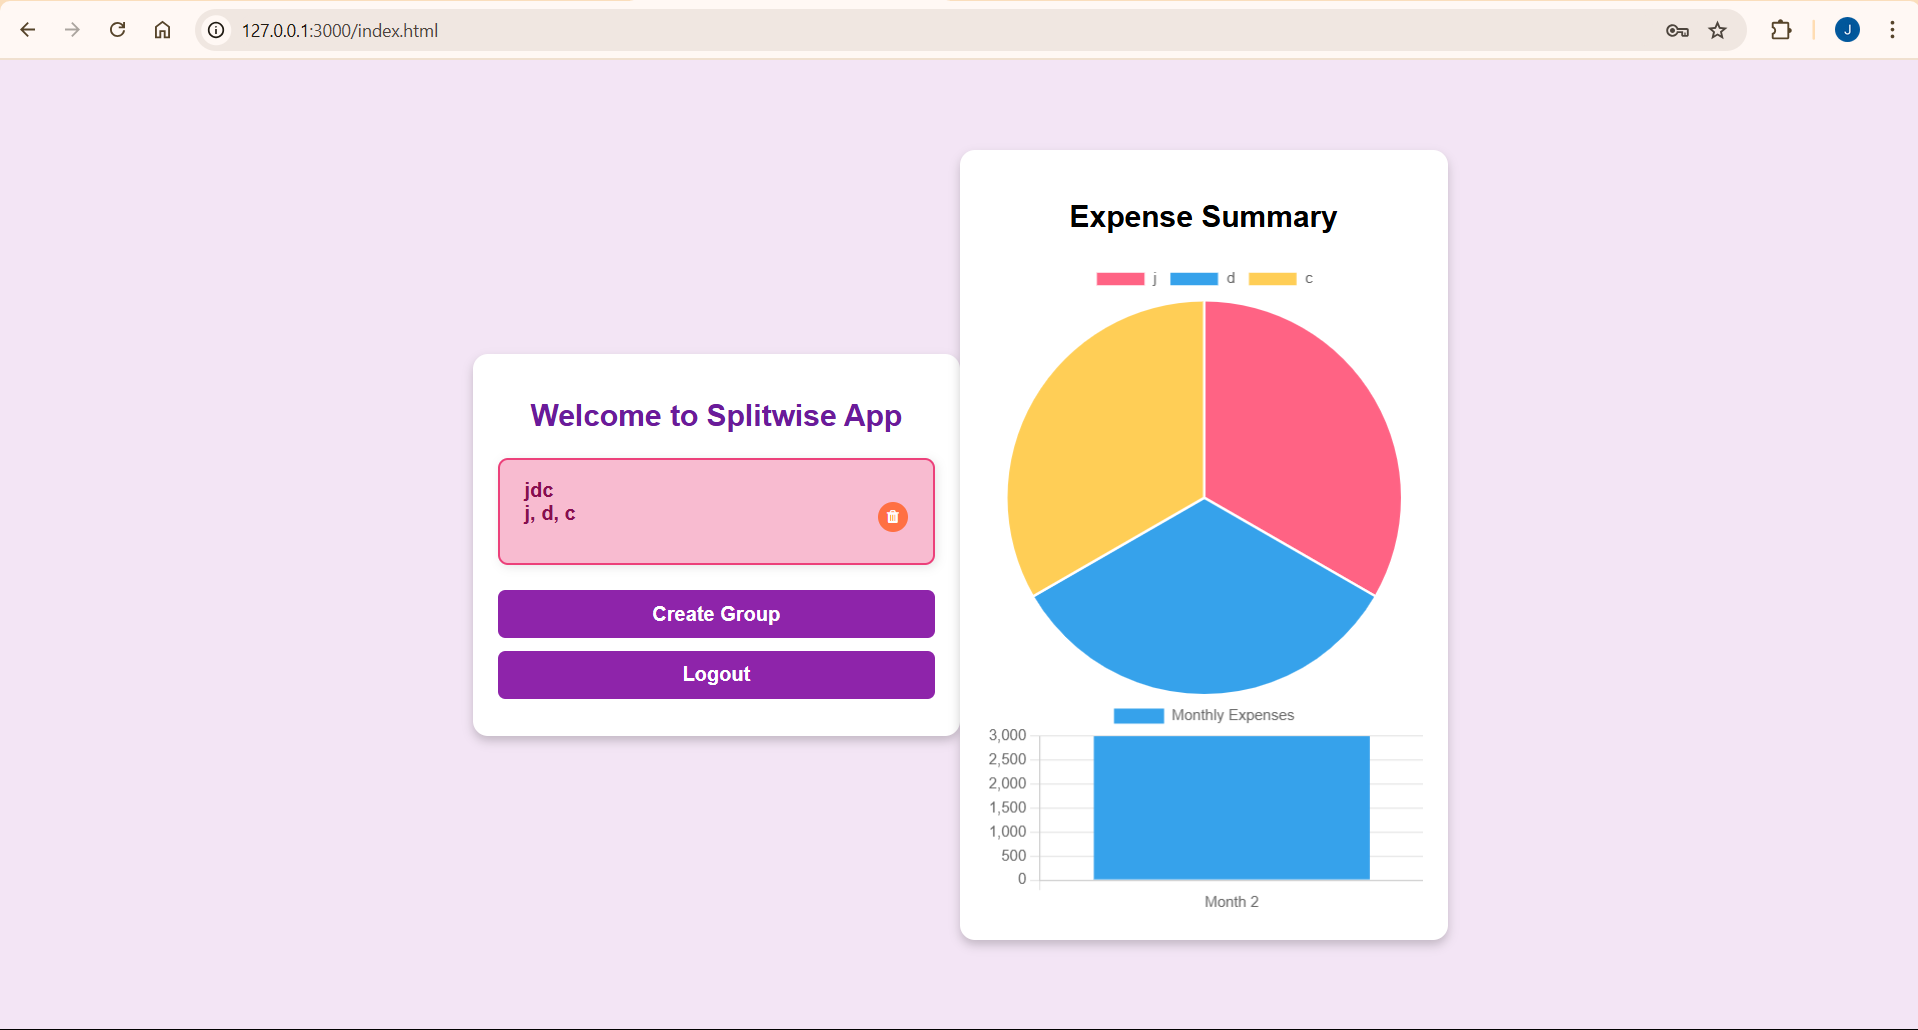
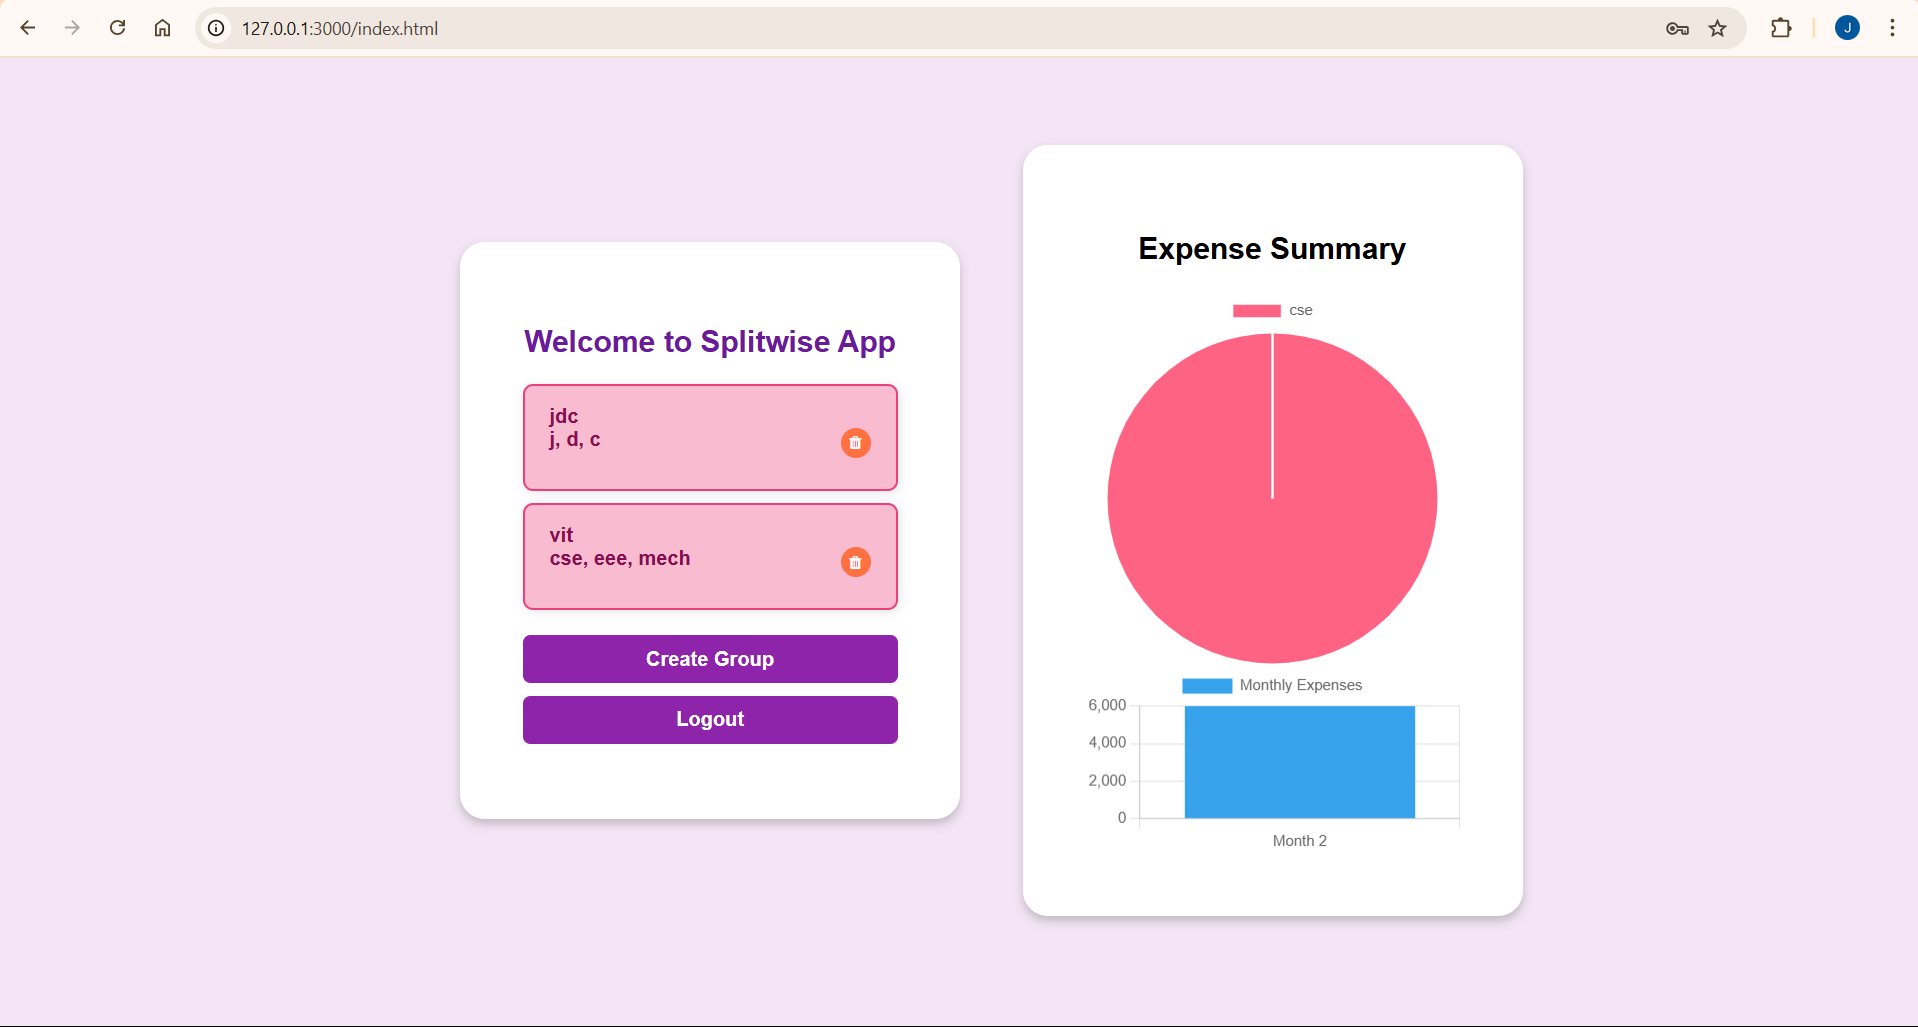
added files

Changed region(s): [[0.2153, 0.1246, 0.7998, 0.9348], [0.0, 0.0, 1.0, 0.0623]]

diff --git a/auth.js b/auth.js
@@ -5,47 +5,50 @@ import {
     onAuthStateChanged 
 } from "https://www.gstatic.com/firebasejs/10.7.0/firebase-auth.js";
 
-const signupBtn = document.getElementById("signup-btn");
-const loginBtn = document.getElementById("login-btn");
-const authMessage = document.getElementById("auth-message");
-
-// ✅ Handle Auth State Only After DOM is Fully Loaded
 document.addEventListener("DOMContentLoaded", () => {
     onAuthStateChanged(auth, (user) => {
         if (user) {
             console.log("User is already logged in:", user.email);
-            // Prevent immediate redirection on auth.html
-            if (!window.location.href.includes("auth.html")) {
+            // If the user is on the login or signup page, don't redirect immediately
+            if (!window.location.href.includes("auth.html") && !window.location.href.includes("signup.html")) {
                 window.location.href = "index.html";
             }
         }
     });
-});
 
-// ✅ Sign Up Function
-signupBtn.addEventListener("click", async () => {
-    const email = document.getElementById("signup-email").value;
-    const password = document.getElementById("signup-password").value;
+    const signupBtn = document.getElementById("signup-btn");
+    const loginBtn = document.getElementById("login-btn");
+    const authMessage = document.getElementById("auth-message");
 
-    try {
-        await createUserWithEmailAndPassword(auth, email, password);
-        authMessage.innerText = "Signup Successful! Redirecting...";
-        setTimeout(() => window.location.href = "index.html", 2000);
-    } catch (error) {
-        authMessage.innerText = error.message;
+    // ✅ Sign Up Function
+    if (signupBtn) {
+        signupBtn.addEventListener("click", async () => {
+            const email = document.getElementById("signup-email").value;
+            const password = document.getElementById("signup-password").value;
+
+            try {
+                await createUserWithEmailAndPassword(auth, email, password);
+                authMessage.innerText = "Signup Successful! Redirecting to Login...";
+                setTimeout(() => window.location.href = "auth.html", 2000); // Redirect to login page
+            } catch (error) {
+                authMessage.innerText = error.message;
+            }
+        });
     }
-});
 
-// ✅ Login Function
-loginBtn.addEventListener("click", async () => {
-    const email = document.getElementById("login-email").value;
-    const password = document.getElementById("login-password").value;
+    // ✅ Login Function
+    if (loginBtn) {
+        loginBtn.addEventListener("click", async () => {
+            const email = document.getElementById("login-email").value;
+            const password = document.getElementById("login-password").value;
 
-    try {
-        await signInWithEmailAndPassword(auth, email, password);
-        authMessage.innerText = "Login Successful! Redirecting...";
-        setTimeout(() => window.location.href = "index.html", 2000);
-    } catch (error) {
-        authMessage.innerText = error.message;
+            try {
+                await signInWithEmailAndPassword(auth, email, password);
+                authMessage.innerText = "Login Successful! Redirecting...";
+                setTimeout(() => window.location.href = "index.html", 2000); // Redirect to main page
+            } catch (error) {
+                authMessage.innerText = error.message;
+            }
+        });
     }
 });

diff --git a/signup.js b/signup.js
@@ -1,0 +1,52 @@
+import { auth } from "./firebase-config.js";
+import { createUserWithEmailAndPassword } from "https://www.gstatic.com/firebasejs/10.7.0/firebase-auth.js";
+
+document.addEventListener("DOMContentLoaded", () => {
+    console.log("Signup.js loaded!"); // Debugging
+
+    const signupBtn = document.getElementById("signup-btn");
+    if (!signupBtn) {
+        console.error("Signup button not found!");
+        return;
+    }
+
+    signupBtn.addEventListener("click", async (event) => {
+        event.preventDefault(); // Prevent page refresh
+        console.log("Signup button clicked!");
+
+        const emailInput = document.getElementById("signup-email");
+        const passwordInput = document.getElementById("signup-password");
+        const authMessage = document.getElementById("auth-message"); // ✅ Check this
+
+        if (!emailInput || !passwordInput) {
+            console.error("Signup inputs not found!");
+            return;
+        }
+
+        const email = emailInput.value.trim();
+        const password = passwordInput.value.trim();
+
+        if (email === "" || password === "") {
+            if (authMessage) authMessage.innerText = "Please enter an email and password.";
+            return;
+        }
+
+        try {
+            const userCredential = await createUserWithEmailAndPassword(auth, email, password);
+            console.log("User signed up:", userCredential.user.email);
+
+            if (authMessage) authMessage.innerText = "Signup Successful! Redirecting to Login...";
+            else console.warn("auth-message element not found!");
+
+            setTimeout(() => {
+                console.log("Redirecting to auth.html...");
+                window.location.replace("auth.html");
+            }, 2000);
+
+        } catch (error) {
+            console.error("Signup error:", error.message);
+            if (authMessage) authMessage.innerText = error.message;
+            else console.warn("auth-message element not found!");
+        }
+    });
+});

diff --git a/auth.html b/auth.html
@@ -3,38 +3,29 @@
 <head>
     <meta charset="UTF-8">
     <meta name="viewport" content="width=device-width, initial-scale=1.0">
-    <title>Splitwise - Authentication</title>
+    <title>Login - FairShare</title>
     <link rel="stylesheet" href="style.css">
 
     <!-- Firebase SDKs -->
     <script type="module" src="https://www.gstatic.com/firebasejs/10.7.0/firebase-app.js"></script>
     <script type="module" src="https://www.gstatic.com/firebasejs/10.7.0/firebase-auth.js"></script>
-    <script type="module" src="./firebase-config.js"></script> <!-- Firebase configuration -->
+    <script type="module" src="./firebase-config.js"></script> <!-- Firebase Configuration -->
 </head>
 <body>
     <div class="container">
-        <h1>Welcome to Splitwise</h1>
-        
-        <!-- Signup Form -->
-        <div id="signup-section">
-            <h2>Sign Up</h2>
-            <input type="email" id="signup-email" placeholder="Email">
-            <input type="password" id="signup-password" placeholder="Password">
-            <button id="signup-btn">Sign Up</button>
-        </div>
+        <h1>Login to Splitwise</h1>
 
         <!-- Login Form -->
         <div id="login-section">
-            <h2>Login</h2>
             <input type="email" id="login-email" placeholder="Email">
             <input type="password" id="login-password" placeholder="Password">
             <button id="login-btn">Login</button>
+            <p>Don't have an account? <a href="signup.html">Sign Up</a></p> <!-- Link to Signup Page -->
         </div>
 
         <p id="auth-message"></p> <!-- Display authentication messages -->
-
     </div>
 
-    <script type="module" src="auth.js"></script> <!-- Keep this at the bottom -->
+    <script type="module" src="auth.js"></script> <!-- Login Script -->
 </body>
 </html>

diff --git a/signup.html b/signup.html
@@ -1,0 +1,33 @@
+<!DOCTYPE html>
+<html lang="en">
+<head>
+    <meta charset="UTF-8">
+    <meta name="viewport" content="width=device-width, initial-scale=1.0">
+    <title>Sign Up - FairShare</title>
+    <link rel="stylesheet" href="style.css">
+
+    <!-- Firebase SDKs -->
+    <script type="module" src="https://www.gstatic.com/firebasejs/10.7.0/firebase-app.js"></script>
+    <script type="module" src="https://www.gstatic.com/firebasejs/10.7.0/firebase-auth.js"></script>
+    <script type="module" src="./firebase-config.js"></script> <!-- Firebase Configuration -->
+</head>
+<body>
+    <div class="container">
+        <h1>Create an Account</h1>
+
+        <!-- Signup Form -->
+        <div id="signup-section">
+            <input type="email" id="signup-email" placeholder="Email">
+            <input type="password" id="signup-password" placeholder="Password">
+            <button id="signup-btn">Sign Up</button>
+            <p>Already have an account? <a href="auth.html">Login</a></p> <!-- Navigate back to Login -->
+        </div>
+
+        <p id="signup-message"></p> <!-- Display messages -->
+        <p id="auth-message" style="color: red; font-weight: bold;"></p>
+
+    </div>
+
+    <script type="module" src="signup.js"></script> <!-- Signup Script -->
+</body>
+</html>

diff --git a/style.css b/style.css
@@ -11,11 +11,13 @@ body {
 
 .container {
     background-color: #ffffff;
-    padding: 20px;
-    border-radius: 12px;
+    padding: 50px;
+    border-radius: 20px;
     box-shadow: 0 4px 8px rgba(0, 0, 0, 0.2);
-    width: 350px;
+    width: 300px;
     text-align: center;
+    margin-bottom: 20px;
+    margin-left: 50px;
 }
 
 h1 {
@@ -165,7 +167,8 @@ button:hover {
 }
 
 #expenseChartContainer {
-    margin-top: 30px;
+    height: 50px;
+    margin-top: 20px;
     padding: 15px;
     background-color: #ffffff;
     border-radius: 12px;

diff --git a/index.html b/index.html
@@ -1,7 +1,7 @@
 <!DOCTYPE html>
 <html lang="en">
 <head>
-    <title>Splitwise Home Page</title>
+    <title>FairShare</title>
     <meta charset="UTF-8">
     <meta name="viewport" content="width=device-width, initial-scale=1.0">
     <link rel="stylesheet" href="./style.css">
